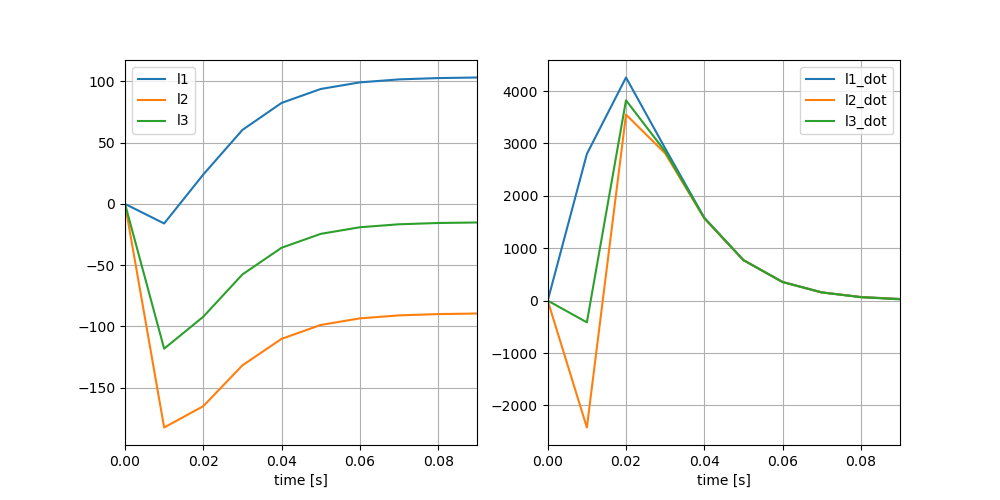
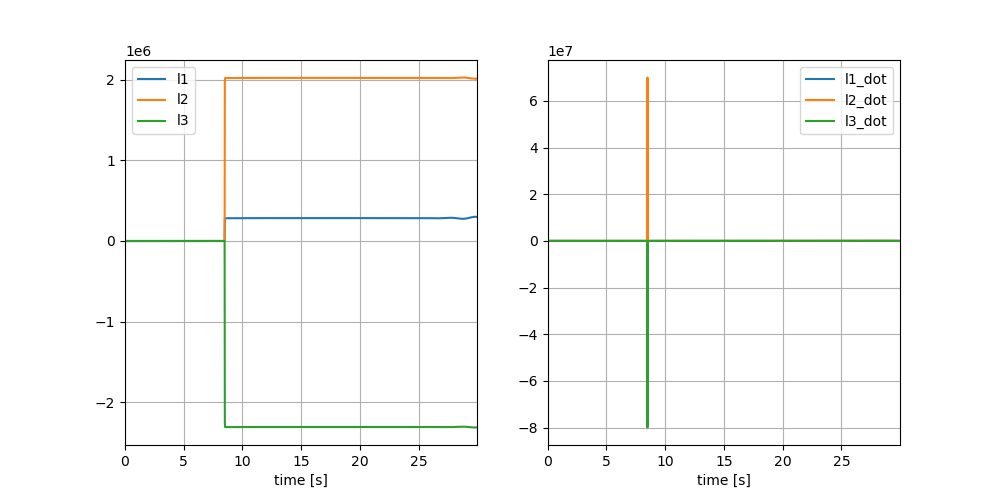
thanos

diff --git a/o/Dynamic_Control_of_Soft_Robotic_Arm_saigen/simulator.py b/o/Dynamic_Control_of_Soft_Robotic_Arm_saigen/simulator.py
@@ -86,7 +86,7 @@ class Simulator:
     def run_simulation(self,):
         """動力学なしで軌道追従をシミュレーション"""
         
-        q_init = np.array([[0.147, 0.147, 0.147]]).T
+        q_init = np.array([[0.147, 0.147, 0.5]]).T
         dq_init = np.zeros((3, 1))
         
         state_init = np.concatenate([q_init, dq_init])
@@ -220,7 +220,7 @@ class Simulator:
 
 if __name__ == "__main__":
     
-    hoge = Simulator(0.1, 0.01)
+    hoge = Simulator(30, 0.01)
     
     hoge.run_simulation()
     hoge.plot_actuator_data()

diff --git a/o/Dynamic_Control_of_Soft_Robotic_Arm_saigen/kinematics.py b/o/Dynamic_Control_of_Soft_Robotic_Arm_saigen/kinematics.py
@@ -57,7 +57,7 @@ class Kinematics:
         A3 = l2 - l3
         A4 = 3*self.L0 + l1 + l2 + l3
         
-        lam = A4 / 2*sqrt(A1)
+        lam = A4 * self.r / 2*sqrt(A1)
         phi = 2*sqrt(A1) / 3*self.r
         theta = np.arctan2(1, sqrt(3) * (-A3) / (-A2))
         
